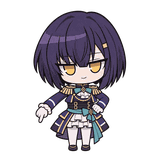
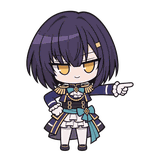
feat: 대기 칸 그웬이 오른쪽 단추를 가리키도록 그림 교체
Claude-Session: https://claude.ai/code/session_0157ND6VJTTMFoJFs86s5aUg

Changed region(s): [[0.1562, 0.0625, 0.8438, 0.9688]]

diff --git a/tools/gwen_art/build_ready.py b/tools/gwen_art/build_ready.py
@@ -7,10 +7,28 @@ import argparse
 import json
 from pathlib import Path
 
-from PIL import Image, ImageChops, ImageDraw
+from PIL import Image, ImageChops, ImageDraw, ImageFont
 
 from build import NAMES, OUT, RESAMPLE, ROOT, master
-from build2 import encode, move_part
+from build2 import encode
+
+DURATIONS = [300, 200, 200, 300]
+
+
+def ready_frames(src):
+    # Only the exposed wrist/glove extends toward screen right. The left edge
+    # stays anchored to the sleeve; hair, face and body stay pixel-identical.
+    box = (354, 254, 440, 316)
+    hand = src.crop(box)
+    frames = []
+    for dx in (0, 5, 9, 0):
+        frame = src.copy()
+        if dx:
+            frame.paste((0, 0, 0, 0), box)
+            frame.alpha_composite(
+                hand.resize((hand.width + dx, hand.height), RESAMPLE), box[:2])
+        frames.append(frame)
+    return frames
 
 
 def compact_master(src):
@@ -34,7 +52,7 @@ def compact_master(src):
 
 
 def compare(frames):
-    sheet = Image.new('RGB', (1320, 670), '#edf0f5')
+    sheet = Image.new('RGB', (1320, 790), '#edf0f5')
     draw = ImageDraw.Draw(sheet)
     for i, name in enumerate((*NAMES, 'ready')):
         x = i * 220
@@ -43,14 +61,23 @@ def compare(frames):
         pic = src.resize((220, 220), RESAMPLE)
         sheet.paste(pic, (x, 40), pic)
         draw.rectangle((x, 280, x + 219, 465), fill='#111b30')
-        pic = src.resize((140, 140), RESAMPLE)
-        sheet.paste(pic, (x + 40, 300), pic)
-        draw.text((x + 16, 478), '140px / dark UI', fill='#192239')
-    draw.text((16, 525), 'ready: one-shot hand gesture / 160px frames', fill='#192239')
+        pic = src.resize((160, 160), RESAMPLE)
+        sheet.paste(pic, (x + 30, 290), pic)
+        draw.text((x + 16, 478), '160px / dark UI', fill='#192239')
+    draw.text((16, 515), '160px layout: Gwen points to the button on SCREEN RIGHT', fill='#192239')
+    draw.rectangle((10, 545, 440, 775), fill='#111b30')
+    pic = Image.open(OUT / 'ready.png').convert('RGBA')
+    sheet.paste(pic, (25, 565), pic)
+    draw.rounded_rectangle((190, 629, 410, 675), radius=8,
+                           fill='#3158a0', outline='#86a7eb', width=2)
+    font = ImageFont.truetype('C:/Windows/Fonts/malgun.ttf', 18)
+    draw.text((300, 652), '추천 편성 보기', font=font, anchor='mm', fill='white')
     for i, frame in enumerate(frames):
-        pic = frame.resize((120, 120), RESAMPLE)
-        sheet.paste(pic, (440 + i * 140, 535), pic)
-    path = ROOT / '_tmp/_art_ready_compare.png'
+        x = 460 + i * 210
+        draw.rectangle((x, 545, x + 199, 775), fill='#111b30')
+        sheet.paste(frame, (x + 20, 565), frame)
+        draw.text((x + 20, 747), f'{i + 1}: {DURATIONS[i]}ms', fill='white')
+    path = ROOT / '_tmp/_art_ready2_compare.png'
     path.parent.mkdir(parents=True, exist_ok=True)
     sheet.save(path)
 
@@ -78,13 +105,14 @@ def main():
     src = Image.open(path).convert('RGBA')
     assert src.size == (512, 512)
     assert src.getchannel('A').getextrema() == (0, 255)
-    # Coordinates are fitted to the approved generated ready master.
-    polygon = [(80, 319), (158, 319), (185, 340), (180, 357),
-               (165, 370), (155, 405), (80, 405)]
-    frames = move_part(src, polygon, [0, -4, 3, 0], (166, 330))
+    frames = ready_frames(src)
     assert ImageChops.difference(frames[0], frames[1]).getbbox()
     assert frames[0].tobytes() == frames[-1].tobytes()
-    served = encode('ready', frames, 160, [300, 200, 200, 300], 1)
+    for frame in frames:
+        assert frame.crop((0, 0, 354, 512)).tobytes() == src.crop((0, 0, 354, 512)).tobytes()
+        assert frame.getchannel('A').getbbox()[2] < 488, 'Fingertip needs margin'
+    encode('ready', frames, 160, DURATIONS, 1)
+    served = []
     sizes = {}
     for name in ('ready_512.png', 'ready.png', 'ready.webp'):
         output = OUT / name
@@ -93,12 +121,21 @@ def main():
             assert im.convert('RGBA').getchannel('A').getextrema() == (0, 255)
             if name.endswith('.webp'):
                 assert im.n_frames == 4 and im.info['loop'] == 1
+                durations = []
                 for i in range(im.n_frames):
                     im.seek(i)
                     im.load()
+                    durations.append(im.info['duration'])
+                    served.append(im.convert('RGBA'))
+                assert durations == DURATIONS, durations
         sizes[name] = output.stat().st_size
+    assert sizes['ready.png'] + sizes['ready.webp'] <= 35000, sizes
+    total = sum(p.stat().st_size for p in OUT.iterdir()
+                if p.suffix in ('.png', '.webp') and not p.stem.endswith('_512'))
+    assert total <= 640000, total
     compare(served)
     print(json.dumps(sizes, indent=2))
+    print('Served art total:', total)
 
 
 if __name__ == '__main__':

diff --git a/tools/gwen_art/README.md b/tools/gwen_art/README.md
@@ -1,6 +1,10 @@
 # 그웬 SD 팬 그림
 
-2026-11-15 `ready`를 추가했음. 내장 `image_gen`에 기존 welcome·investigate·report를 참조로 넣고 «기존 SD와 같은 머리·몸 비율, 굵은 윤곽선·단순 명암·남색/청록/금색을 유지하며 한 손은 허리, 다른 흰 장갑 손은 아래의 가상 단추를 가리키고 자신만만하게 미소 짓는 전신 그웬, 투명 배경, 전연령, 문자·로고 없음»으로 요청했음(전체 프롬프트: [ready_prompt.json](ready_prompt.json)). 생성 1회, 재생성 0회이며 기존 5종·walk와 공식 21.webp·22.png를 먼저 확인했음. [build_ready.py](build_ready.py)는 기존 `build.master`·`build2.move_part`·`build2.encode`를 재사용함. 생성 알파의 미세한 배경 잡음을 정리하고 가장자리 투명도를 보존해 본체 높이 약 450px로 맞췄으며, 원본은 내부색 192개·알파 가장자리 64개 팔레트의 512px PNG로 저장했음. `ready.png`는 표시 120~140px용 160px 정지본, `ready.webp`는 손·소매 끝만 0/−4/+3/0도로 움직이는 4프레임(500/220/220/460ms), `loop=1` 한 번 재생임. 세 파일 모두 80,000바이트 이하·투명도·프레임 수를 검사했음. 재현은 `python -B -X utf8 tools/gwen_art/build_ready.py`, 최초 가져오기는 `--import-file <생성 PNG>`를 붙임. 밝은 배경·어두운 UI·140px 표시·동작 프레임을 나란히 둔 `_tmp/_art_ready_compare.png`에서 기존 5종과 화풍을 대조해 채택했음.
+2026-11-15 `ready`를 **화면 오른쪽의 «추천 편성 보기» 단추를 가리키는 자세**로 다시 만들었음. 기존 investigate·files·report·surprised·welcome의 512px 그림과 공식 21.webp·22.png를 `view_image`로 먼저 확인했음. 내장 `image_gen`에 welcome·investigate·report를 직접 참조로 넣고, 같은 SD 비율·굵은 윤곽선·남색/청록/금색 채색, 정면 몸, 한 손은 허리, 다른 팔과 검지는 보는 사람 기준 오른쪽으로 뻗은 자세, 자신만만한 미소를 요청했음. 전연령·문자 없음·투명 배경임. 이번 교체 생성 1회, 추가 재시도 0회임. 전체 프롬프트와 참조 목록은 [ready_prompt.json](ready_prompt.json)에 있음.
+
+[build_ready.py](build_ready.py)는 생성 알파의 미세한 잡음을 정리하고 가장자리 투명도를 보존해 본체 높이 약 450px로 맞췄음. `ready_512.png`는 내부색 192개·알파 가장자리 64개 팔레트의 512px PNG, `ready.png`는 160px 정지본임. `ready.webp`는 160px 4프레임이며 정확히 **300/200/200/300ms, 합계 1000ms, loop=1**임. 손목·장갑 영역만 오른쪽으로 살짝 늘려 손을 내미는 동작을 만들었음(512px 기준 0/+5/+9/0px, 160px에서는 최대 약 2.8px). 얼굴·몸은 고정하고 마지막 프레임은 첫 자세로 돌아옴. 손끝 여백·실제 저장된 WebP의 프레임별 시간·투명도·각 파일 80,000바이트·정지본+동작본 35,000바이트·사이트용 전체 그림 640,000바이트 한도를 빌더에서 검사함.
+
+재현은 `python -B -X utf8 tools/gwen_art/build_ready.py`, 최초 가져오기는 `--import-file <생성 PNG>`를 붙임. 기존 5종과 새 ready, 어두운 배경의 실제 160px 정지본 오른쪽에 단추를 놓은 배치, 저장된 WebP의 4프레임을 담은 `_tmp/_art_ready2_compare.png`를 확인해 채택했음. 검증은 `python -X utf8 -m unittest tests.gwen_art_test`임. 이번에는 ready 3개 파일과 이 폴더의 빌더·프롬프트·설명만 갱신했음.
 
 후속 그림·현재 재생 방식은 [추가 그림·움직임](art2.md)에 정리했음. 기존 SD 5종은 유지했으며 아래는 최초 제작 기록임.
 
